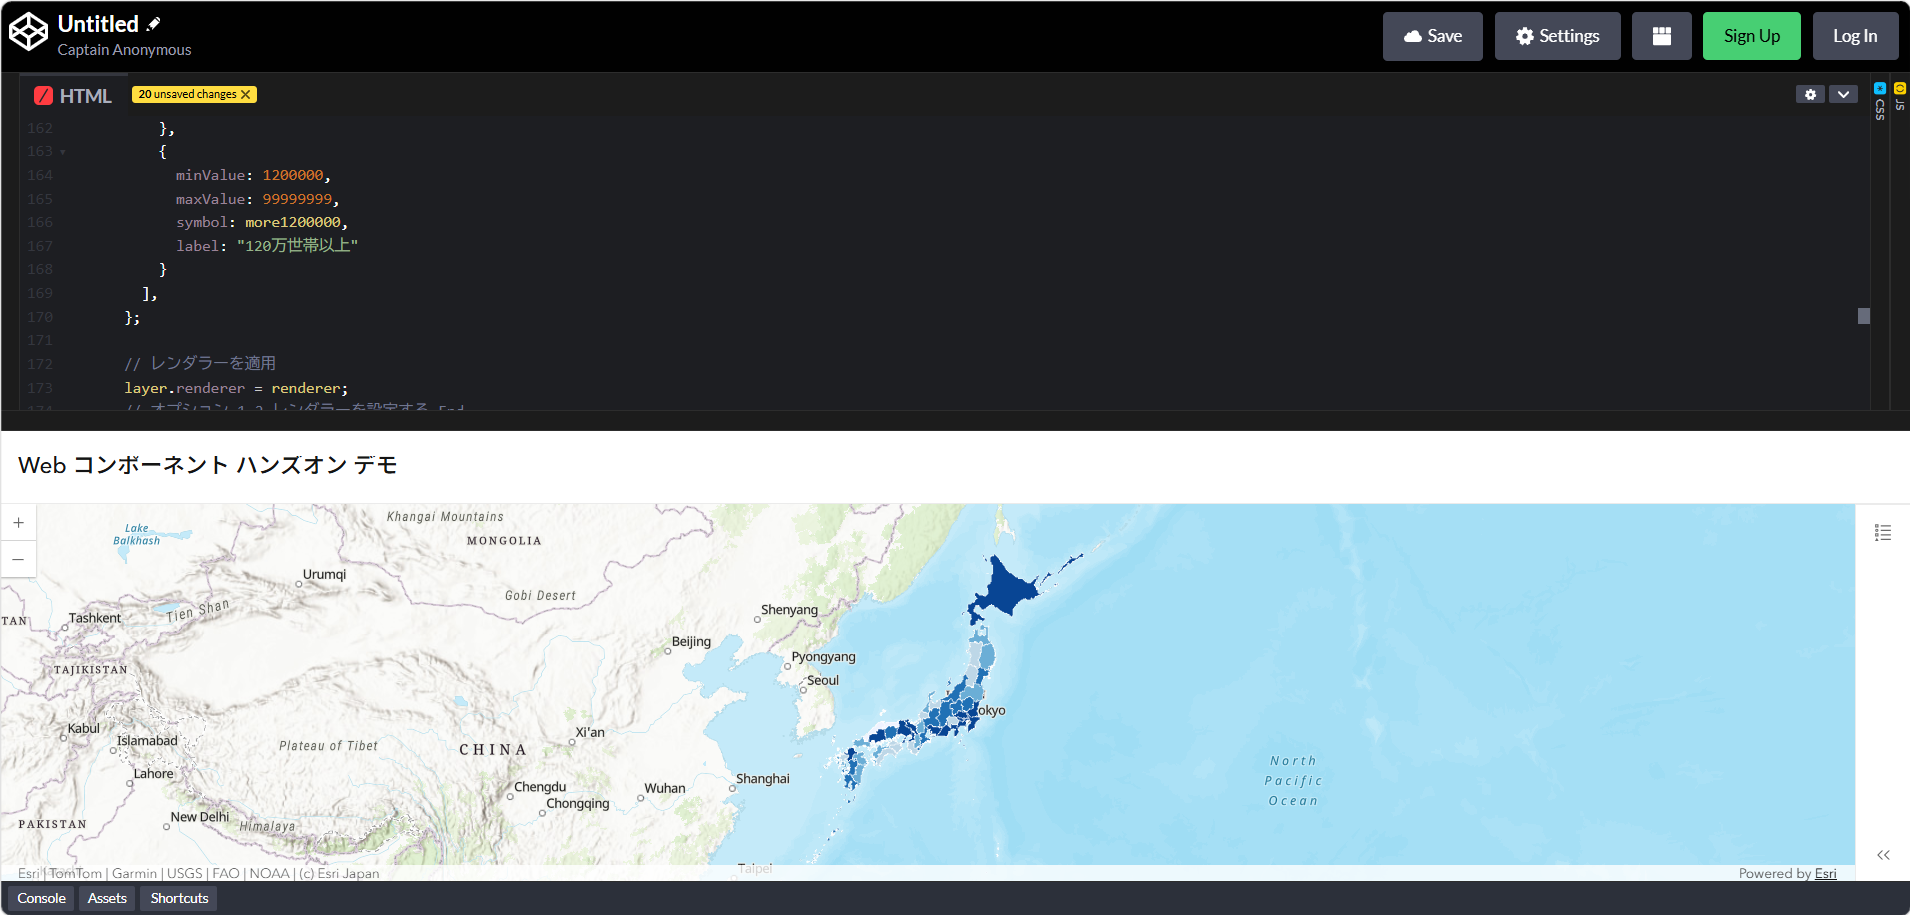
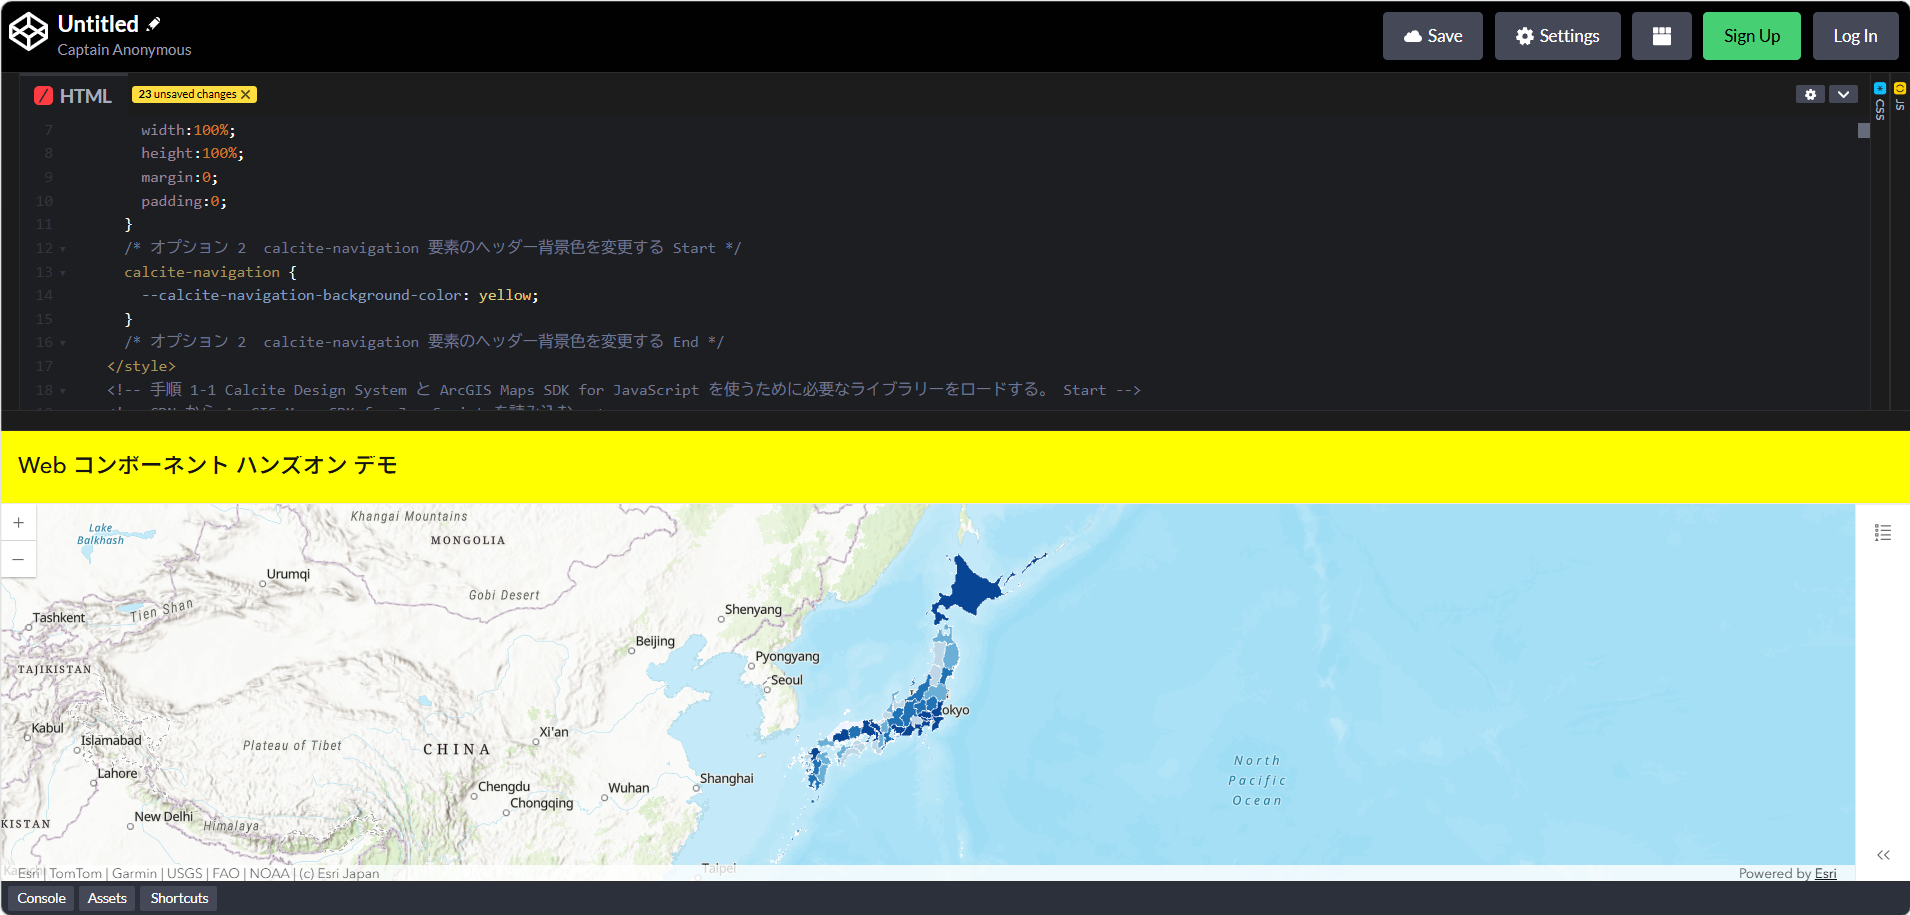
オプション1を手順5に変更
オプション2をオプション1に変更

diff --git a/README.md b/README.md
@@ -1,4 +1,4 @@
-# ArcGIS における Web コンポーネントを用いた Web アプリケーション開発：Web コンポーネント ハンズオン
+# ArcGIS における Web アプリケーション開発：Web コンポーネント ハンズオン
 
 前半では ArcGIS で使用できる Web コンポーネントの概要を紹介し、後半では実際に ArcGIS の Web コンポーネントを使ってアプリケーションをコーディングする流れを体験するハンズオン資料です。  
 
